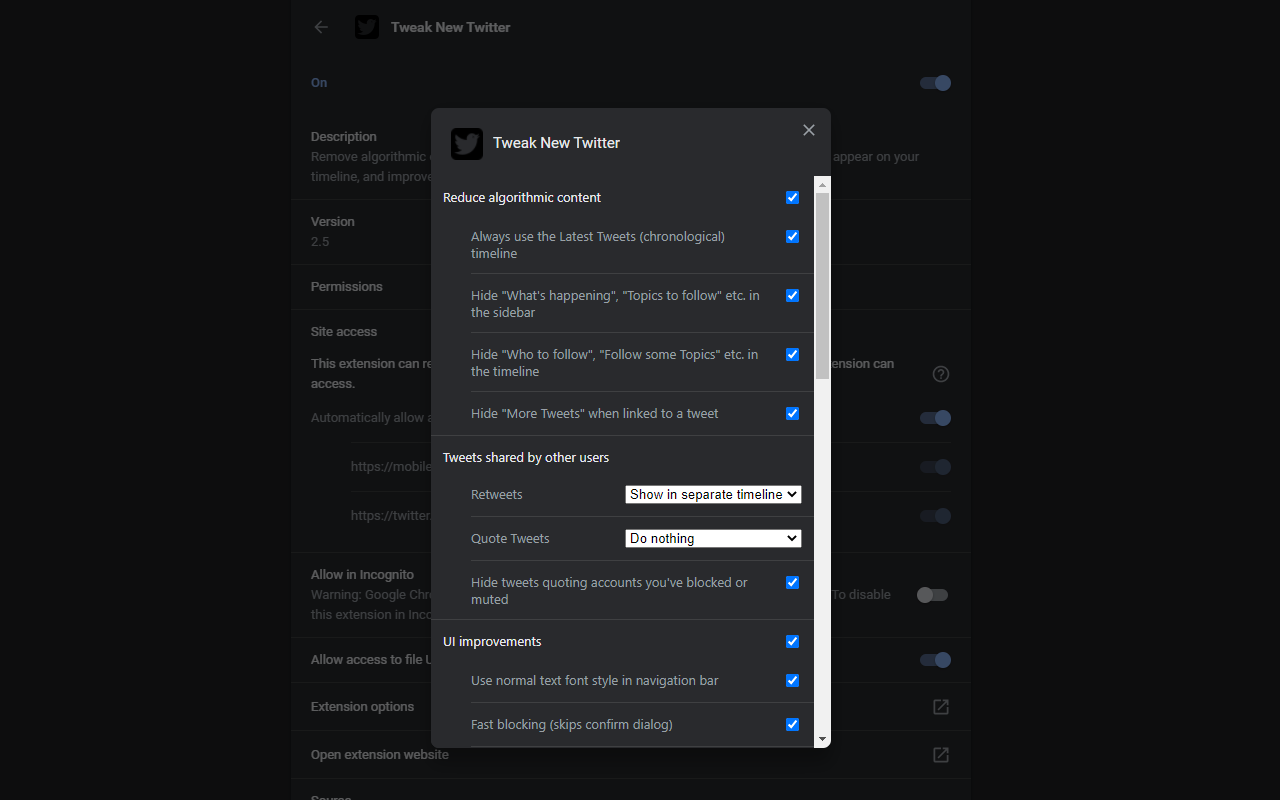
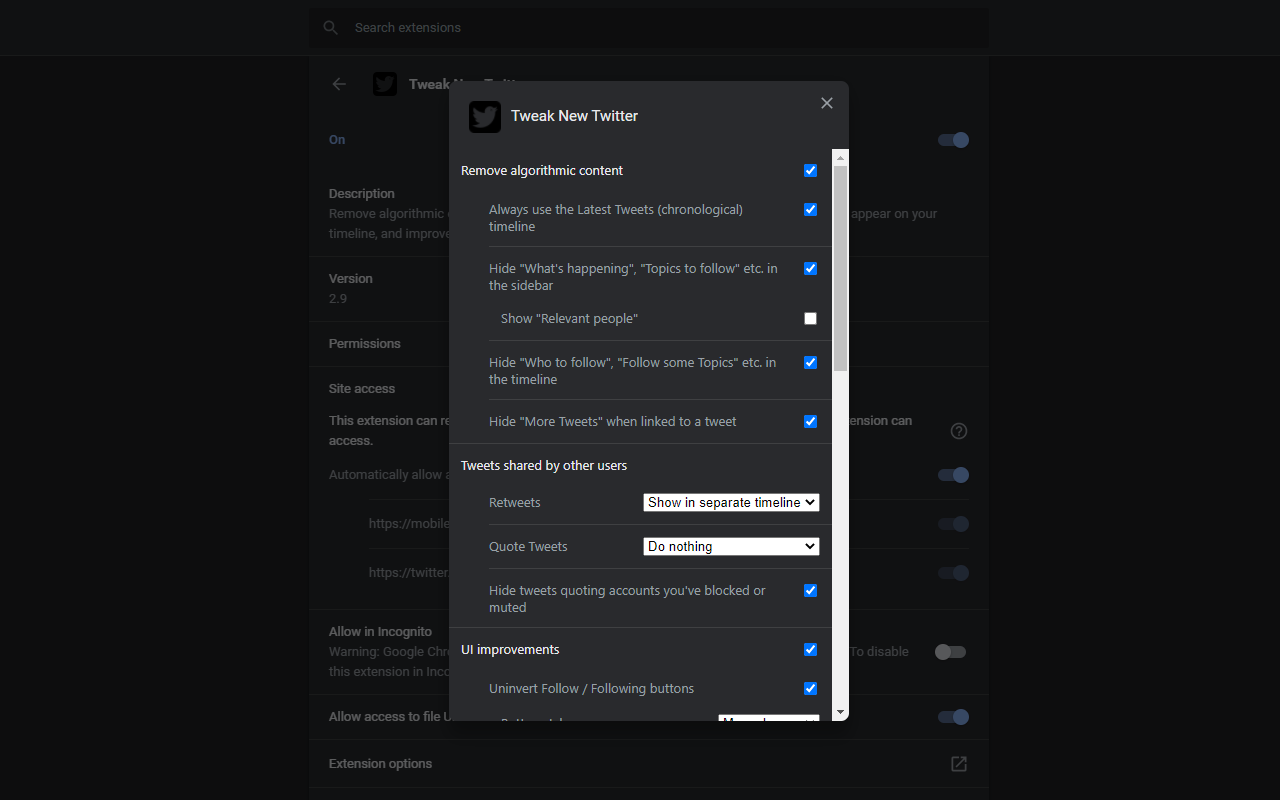
Update screenshots and README for v2.9

diff --git a/README.md b/README.md
@@ -56,7 +56,7 @@ If you open [mobile.twitter.com](https://mobile.twitter.com) and use the "Instal
 
 - Disable use of the Chirp font if you don't like it
 - Uninvert the Follow and Following buttons to make them less jarring
-  - Choice of monochrome or themed (classic) styling for uninverted Follow buttons
+  - Choice of monochrome or themed (classic) styling for uninverted buttons
 - Use the site's normal text font style in the primary navigation menu on desktop to make it less distracting
 - Fast blocking - skips the confirm dialog when you try to block an account
 - Add a new item to the "More" menu (desktop) or slide-out menu (mobile) which takes you straight to the "Add muted word" page
@@ -75,6 +75,7 @@ Optional features you can try, to see how they change how you perceive and use T
 
 - Hide metrics: hide like, retweet, quote tweet and follower counts
 - Reduced interaction mode: hide the action bar under tweets – replies are now the only means of interacting
+- Full-width timeline content: hide the sidebar and let timeline content go full-width
 - Verified accounts: highlight tweets by – or interacting with – verified accounts, or hide them to simulate the aftermath of the [July 2020 Twitter hacks](https://en.wikipedia.org/wiki/2020_Twitter_account_hijacking)
 - Disable the home timeline: find yourself [wasting too much time on Twitter](https://world.hey.com/brecht/free-range-tweet-farming-9399f6e5)? Try preventing use of the home timeline, going to Notifications or Messages by default instead
 
@@ -92,29 +93,29 @@ Optional features you can try, to see how they change how you perceive and use T
 | - | - |
 | ![Screenshot of the separate timeline Tweak New Twitter adds to desktop Twitter, configured to separate Retweets from the rest of the home timeline](screenshots/shared_tweets.png) | ![Screenshot of the separate timeline Tweak New Twitter adds to mobile Twitter, configured to separate Retweets from the rest of the home timeline](screenshots/firefox_android_shared_tweets.jpg) |
 
-### Tidied-up menus, with instant access to "Add muted word"
+### Tidied-up menu, with instant access to "Add muted word"
 
 | Desktop - "More" menu | Mobile - slide-out menu |
 | - | - |
 | ![Screenshot of the "More" menu on desktop Twitter, with most of the menu items removed and a new "Add muted word" menu item](screenshots/more_menu.png) | ![Screenshot of the slide-out menu on mobile Twitter, with most of the menu items removed and a new "Add muted word" menu item](screenshots/firefox_android_menu.jpg) |
+
+### Uninverted Follow buttons
+
+| Monochrome | Themed |
+| - | - |
+| ![Uninverted Follow / Following buttons using the new monochrome Twitter style](screenshots/uninverted_follow_buttons_monochrome.png) | ![Uninverted Follow / Following buttons using the classic themed Twitter style](screenshots/uninverted_follow_buttons_themed.png) |
+
+### Disable use of Chirp font
+
+| Chirp on | Chirp off |
+| - | - |
+| ![A Twitter thread using the Chirp font](screenshots/chirp_on.png) | ![The same Twitter thread using the fallback system fonts](screenshots/chirp_off.png) |
 
 ### Improved Quote Tweets page
 
 | Desktop - quoted tweet pinned to header, duplicates under each tweet are hidden | Mobile - duplicate quoted tweet hidden, leaving more room for quotes  |
 | - | - |
 | ![Screenshot of the improvements Tweak New Twitter makes to Quote Tweet pages on desktop, pinning the quoted tweet in the header instead of repeating it in every tweet](screenshots/quote_tweets.png) | ![Screenshot of the improvements Tweak New Twitter makes to Quote Tweet pages on mobile, showing quote content only instead of repeating the quoted tweet in every tweet](screenshots/firefox_android_quote_tweets.jpg) |
-
-### Configurable via extension options
-
-| Chrome | Firefox | Firefox Android |
-| - | - | - |
-| ![Screenshot of the extension options dialog in Chrome](screenshots/chrome_options_dark.png) | ![Screenshot of the add-on options page in Firefox](screenshots/firefox_options_dark.png) | ![Screenshot of the add-on settings page in Firefox Android](screenshots/firefox_android_settings.jpg) |
-
-### Other mobile features
-
-| No trends on Explore screen, just search | No "Open app" nag in tweet header | No "Switch to the app" nag when logged out… | …or when logging in
-| - | - | - | - |
-| ![Screenshot of the Explore screen in mobile Twitter, with only the search part of the screen visible](screenshots/firefox_android_explore.jpg) | ![Screenshot an individual tweet in mobile Twitter, without the usual "Open app" buttoin in the header, and without the usual Messages navigation item in the bottom navigation bar](screenshots/firefox_android_tweet.jpg) | ![Screenshot of the login screen in mobile Twitter, without the usual "Twitter is better on the app" overlay](screenshots/firefox_android_no_nag_home.jpg) | ![Screenshot of the logged out home screen in mobile Twitter, without the usual "Twitter is better on the app" overlay](screenshots/firefox_android_no_nag_login.jpg) |
 
 ### Experimental features
 
@@ -125,6 +126,26 @@ Optional features you can try, to see how they change how you perceive and use T
 | Highlight (or hide) verified accounts | Disable the home timeline |
 | - | - |
 | ![Sceenshot of a Twitter timeline with a tweet by a user with a verified badge highlighted](screenshots/highlight_verified_accounts.png) | ![Sceenshot of Twitter without the Home navigation item](screenshots/disable_home_timeline.png) |
+
+| Full-width timeline |
+| - |
+| ![Sceenshot of a Twitter timeline which takes up all the available width in the layout](screenshots/full_width_timeline.png) |
+
+### Configurable via extension options
+
+| Firefox | Edge |
+| - | - |
+| ![Screenshot of the add-on options page in Firefox](screenshots/firefox_options_dark.png) | ![Screenshot of the add-on settings page in Edge](screenshots/edge_options_dark.png) |
+
+| Chrome | Firefox Android |
+| - | - |
+| ![Screenshot of the extension options dialog in Chrome](screenshots/chrome_options_dark.png) | ![Screenshot of the add-on settings page in Firefox Android](screenshots/firefox_android_settings.jpg) |
+
+### Other mobile features
+
+| No trends on Explore screen, just search | No "Open app" nag in tweet header | No "Switch to the app" nag when logged out… | …or when logging in
+| - | - | - | - |
+| ![Screenshot of the Explore screen in mobile Twitter, with only the search part of the screen visible](screenshots/firefox_android_explore.jpg) | ![Screenshot an individual tweet in mobile Twitter, without the usual "Open app" buttoin in the header, and without the usual Messages navigation item in the bottom navigation bar](screenshots/firefox_android_tweet.jpg) | ![Screenshot of the login screen in mobile Twitter, without the usual "Twitter is better on the app" overlay](screenshots/firefox_android_no_nag_home.jpg) | ![Screenshot of the logged out home screen in mobile Twitter, without the usual "Twitter is better on the app" overlay](screenshots/firefox_android_no_nag_login.jpg) |
 
 ### Language support
 
